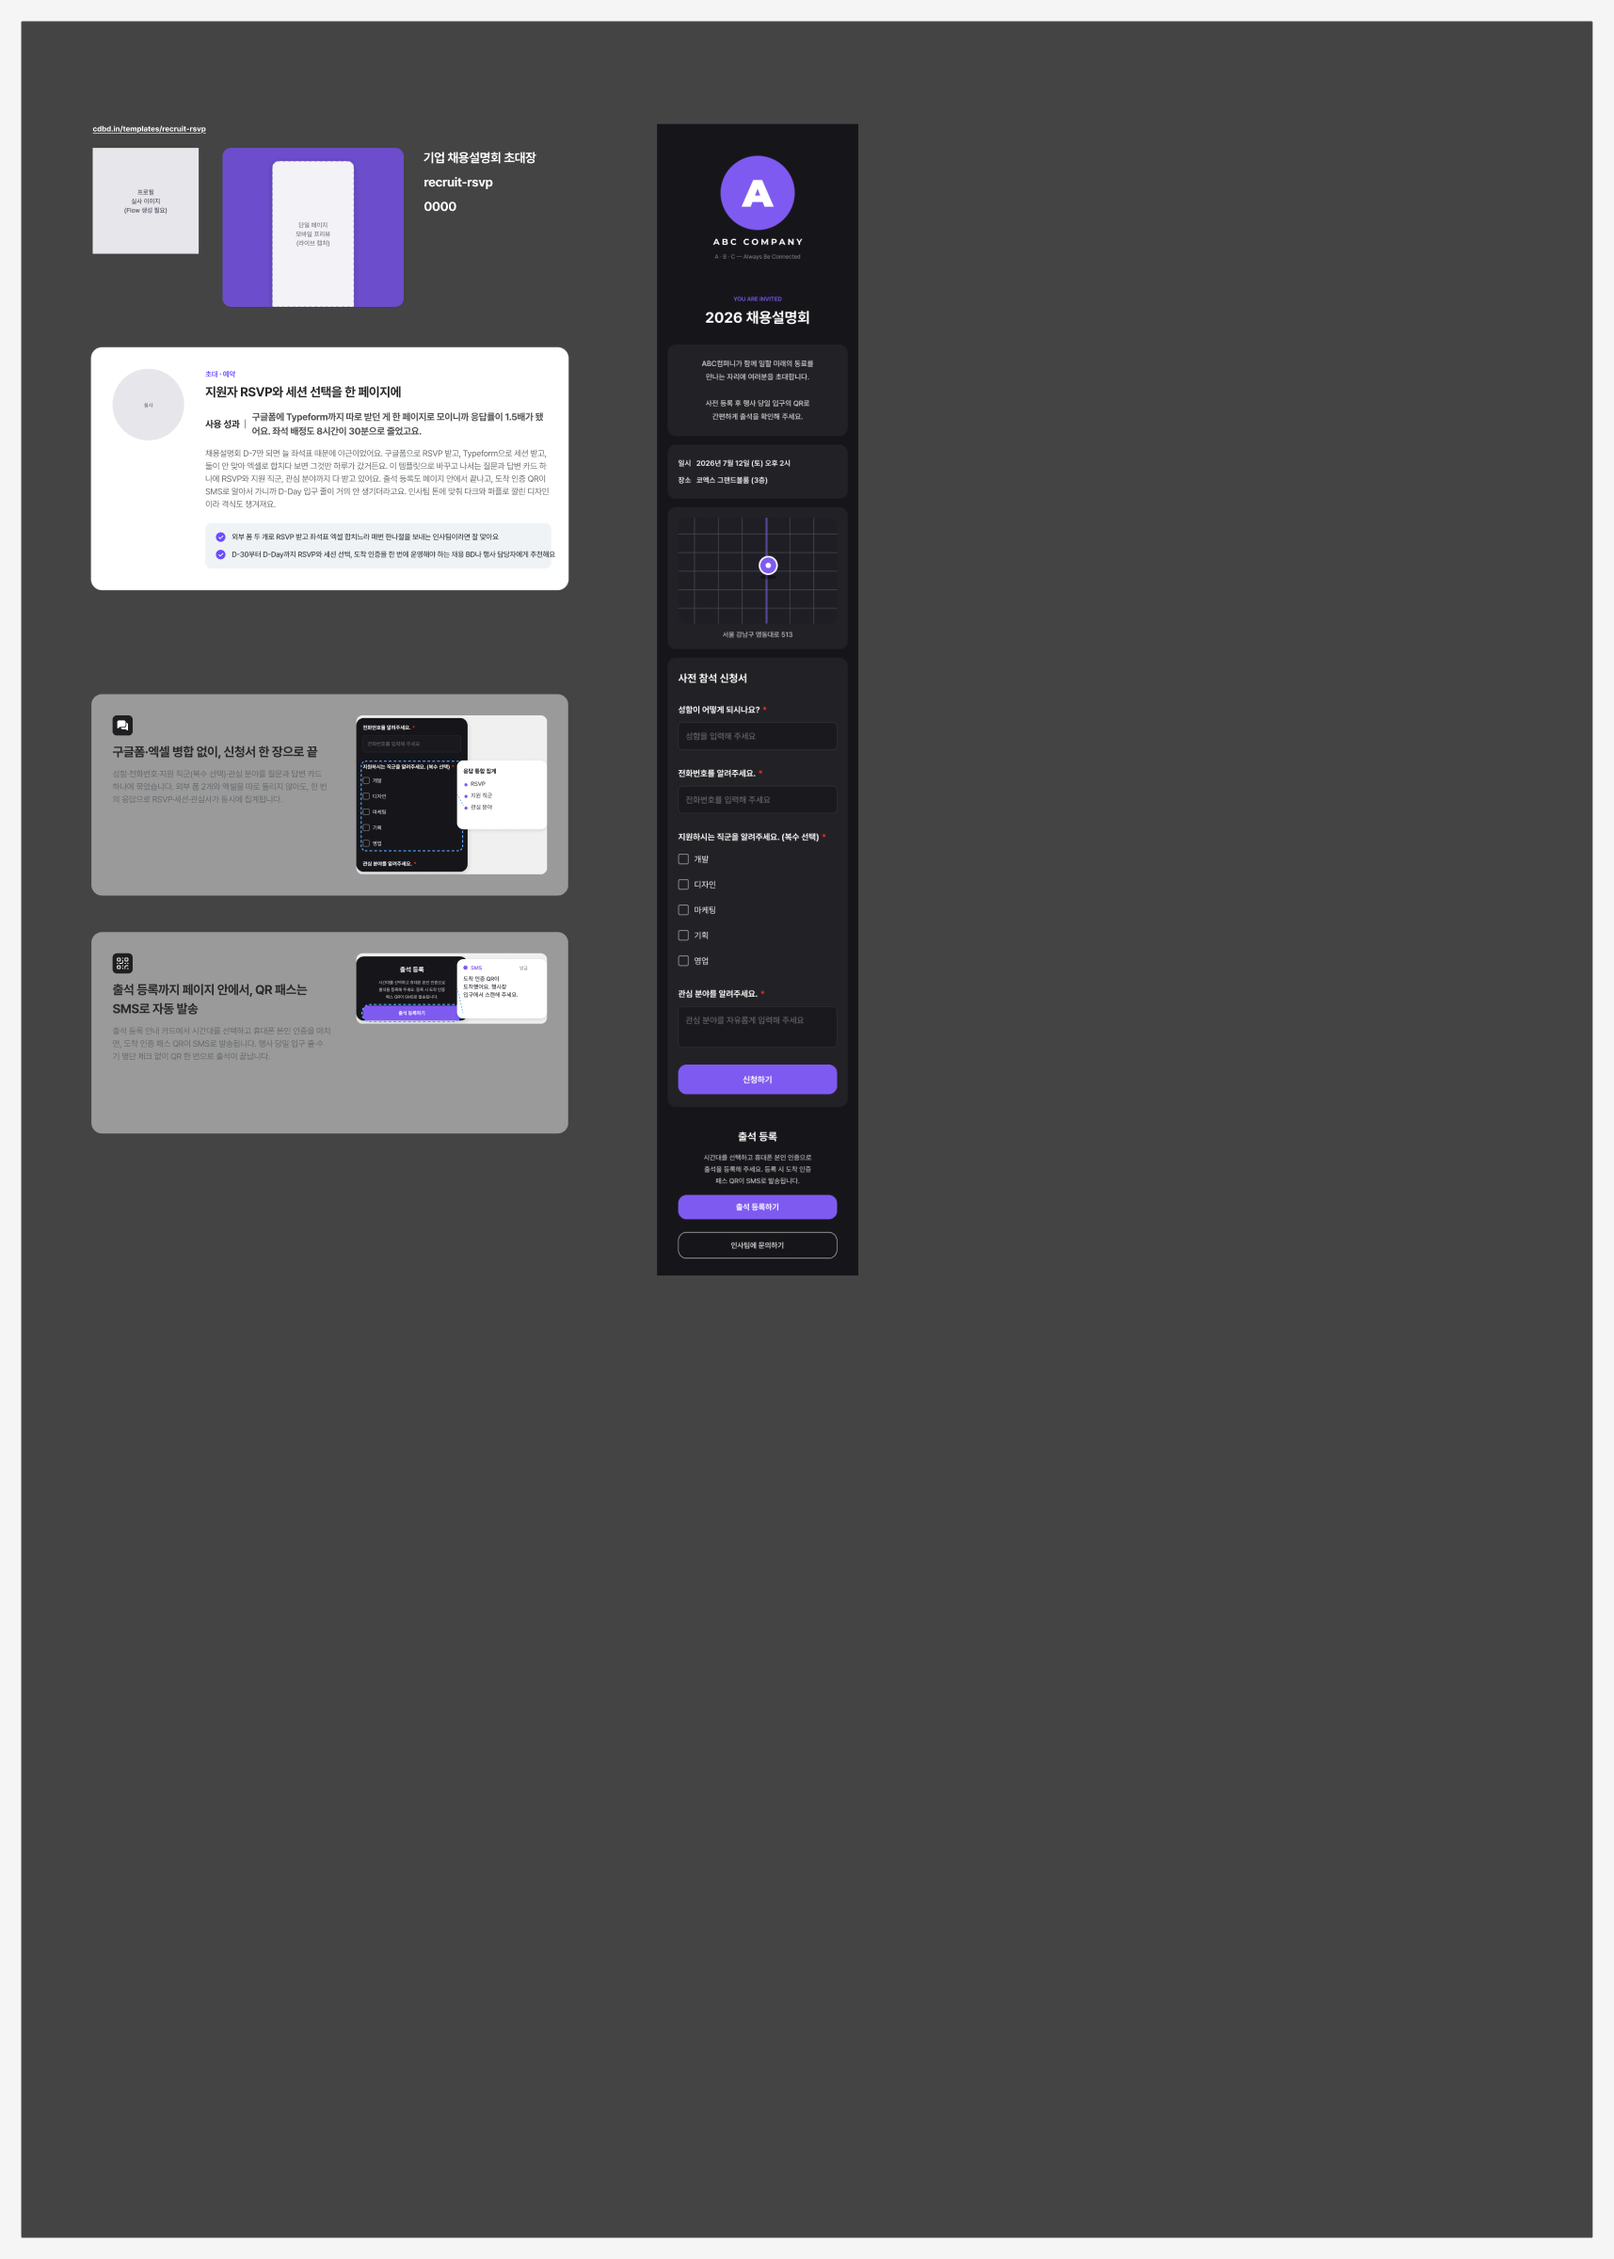
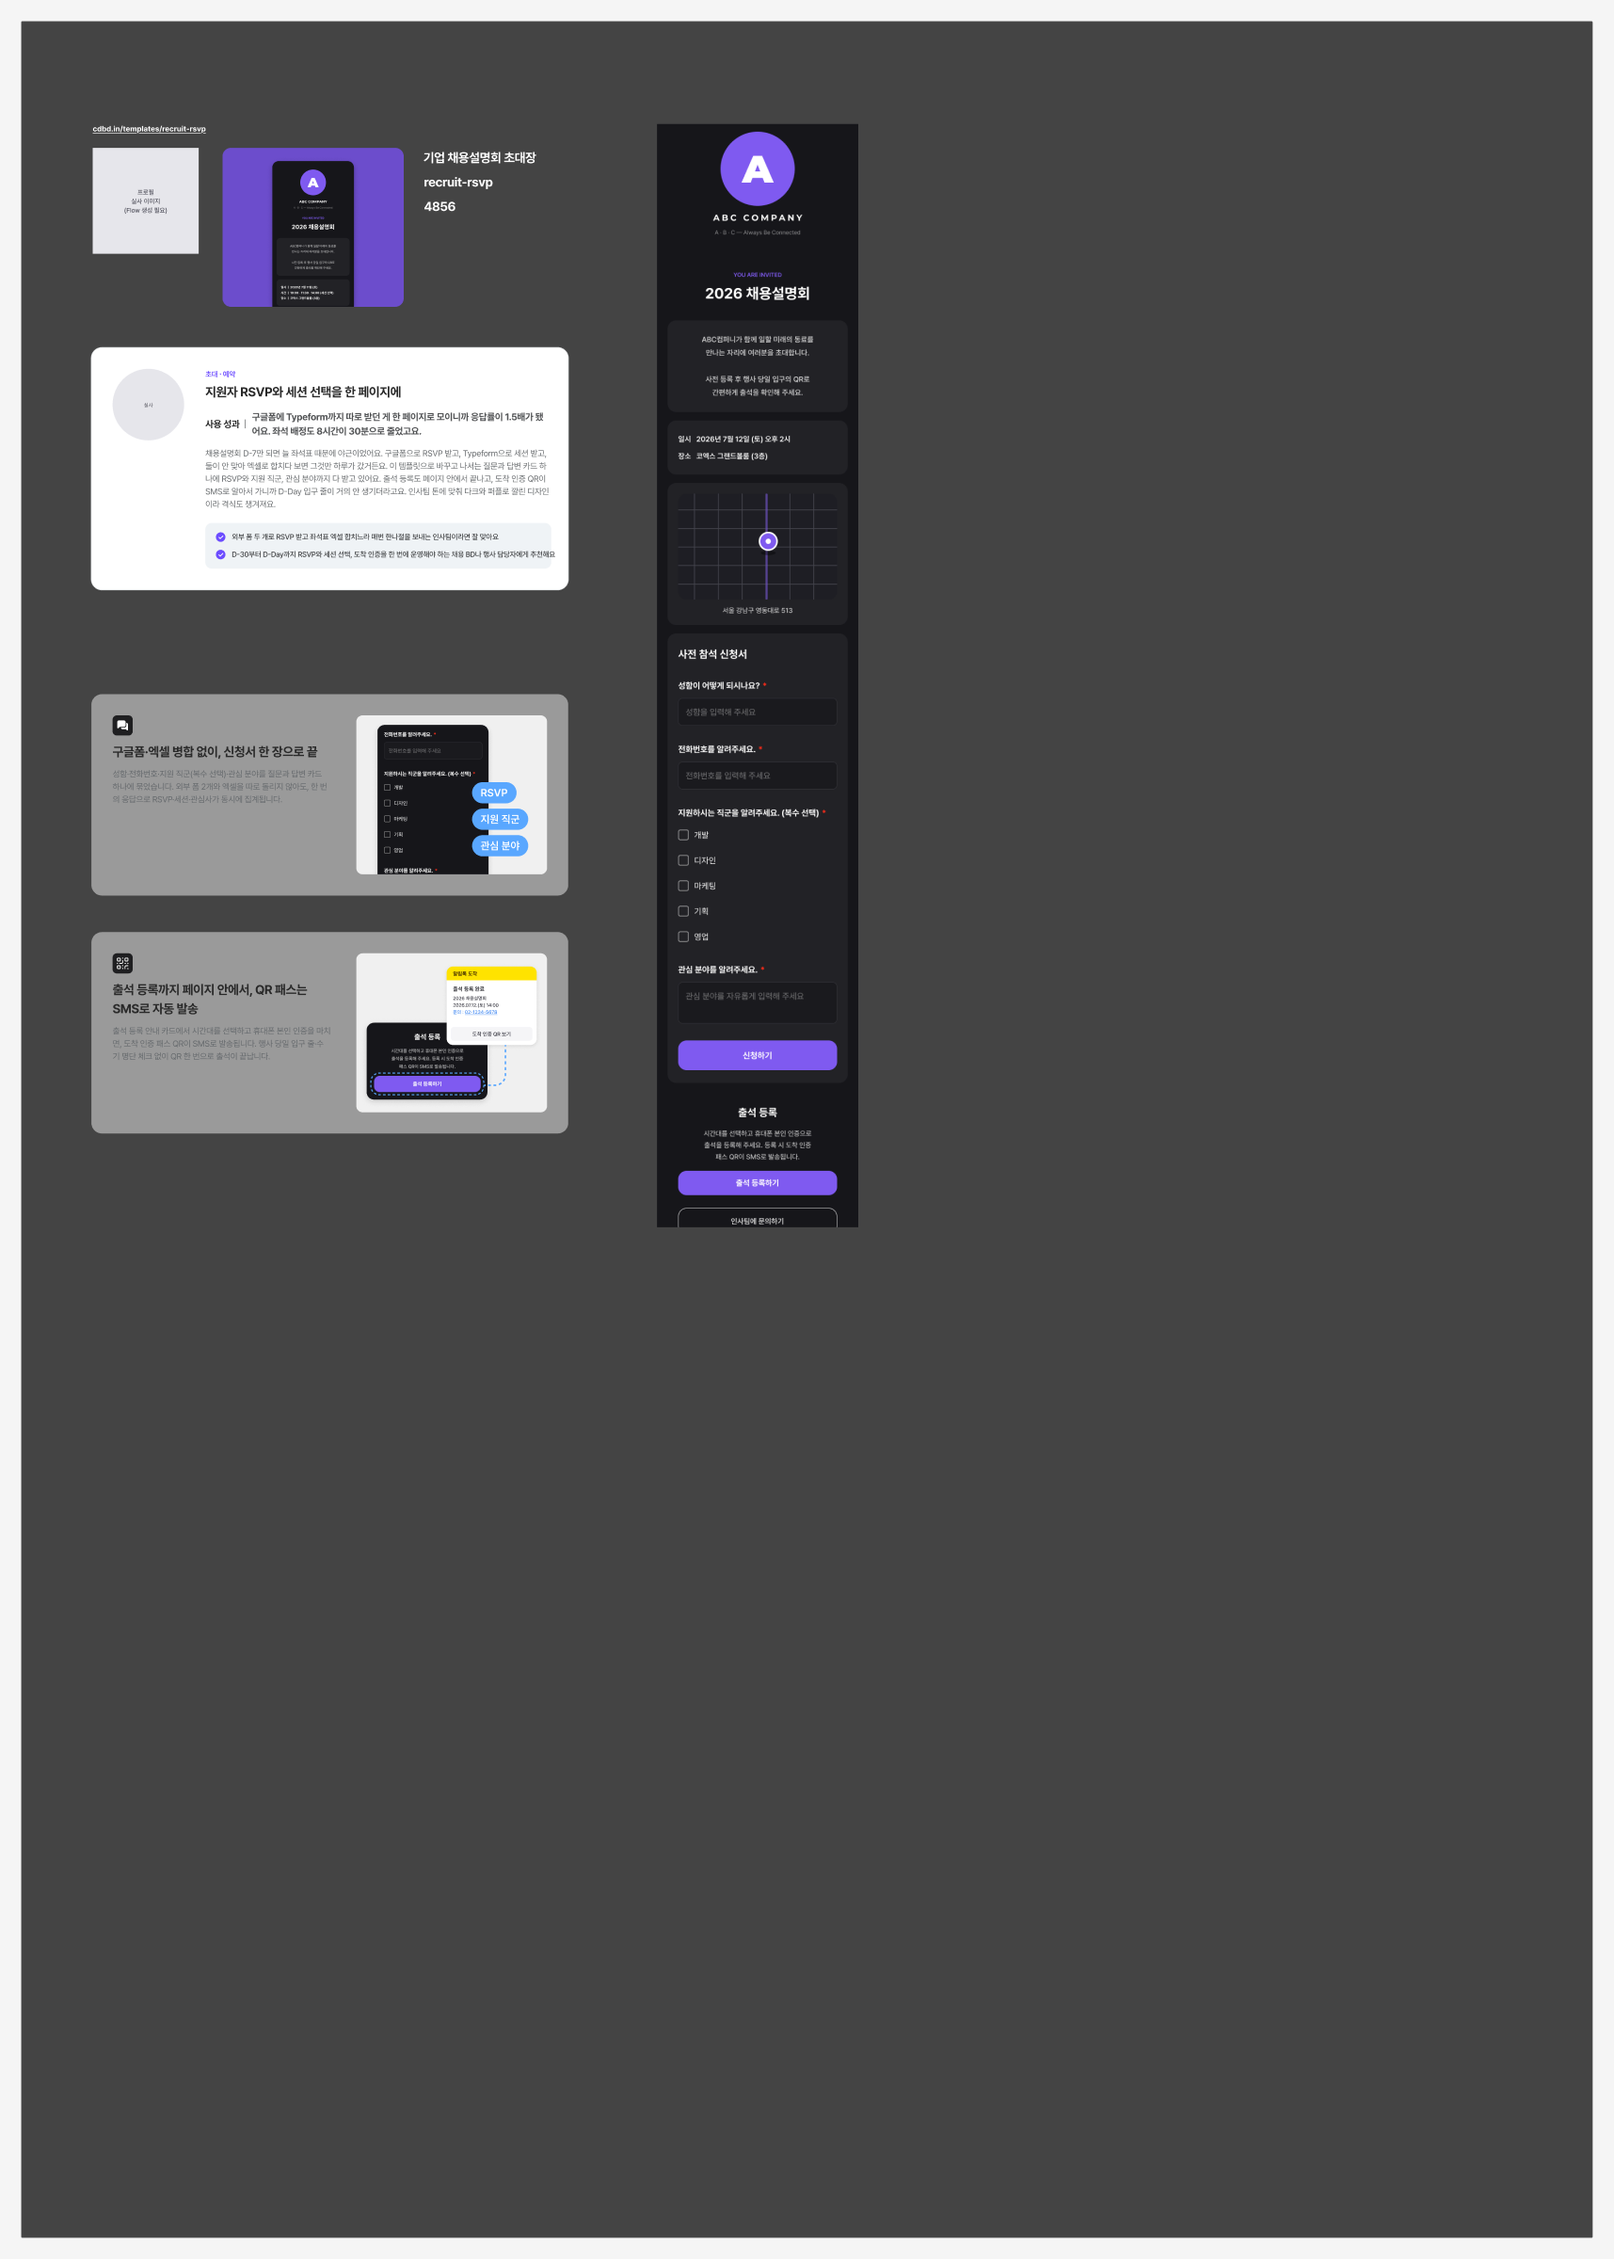
vault backup: 2026-06-19 17:54:13

diff --git a/10.프로젝트/CdBd 템플릿/초대·예약/recruit-rsvp.md b/10.프로젝트/CdBd 템플릿/초대·예약/recruit-rsvp.md
@@ -7,7 +7,7 @@ mood: 🌑 모던/시크
 figma_skeleton: https://www.figma.com/design/oi8zIHLfy59O5zV8aysqq4/CdBd-%ED%85%9C%ED%94%8C%EB%A6%BF-%EB%93%B1%EB%A1%9D?node-id=298-24
 figma_detail_section: https://www.figma.com/design/oi8zIHLfy59O5zV8aysqq4/CdBd-%ED%85%9C%ED%94%8C%EB%A6%BF-%EB%93%B1%EB%A1%9D?node-id=311-506
 spec_source: "[디자인명세] 템플릿To-be_10건_260618.pdf §2-01"
-status: 5단계 완료 (피그마 상세 페이지 슬롯 채움) — 4단계 라이브 페이지 구현 대기
+status: 5단계 완료 (라이브 캡처 부착·에디터 ID 반영) — OG 업로드 수동 대기 → 6단계 어드민 등록
 related: "[[1-5. 템플릿 상세 페이지]], [[1-4-1. 에디터 페이지]], [[1-1. 색상 팔레트 라이브러리]]"
 ---
 
@@ -46,7 +46,7 @@ related: "[[1-5. 템플릿 상세 페이지]], [[1-4-1. 에디터 페이지]], [
 | 제목 | **지원자 RSVP와 세션 선택을 한 페이지에** |
 | 슬러그 | `recruit-rsvp` |
 | 썸네일 이미지 | **신규 패턴** — 단일 페이지 = 중앙 모바일 목업 1개 (top 살짝 crop). 멀티페이지 = 좌우 2개·높이 다르게. [원페이지 spec](https://www.figma.com/design/ZONZ0OlRiyD02hRdwlURED/CdBd-%ED%85%9C%ED%94%8C%EB%A6%BF?node-id=1144-2073). <br><br>**배경색 = 페이지 포인트 색상(보통 버튼색) + dim 15%** ([산정 룰](#-썸네일-배경색-산정-룰)). T01 버튼색 `#7F5AF0` (HSL L=65, bright) → black dim 15% → 최종 `#6C4DCC` |
-| 에디터 ID | `0000` _(더미 — 4단계 라이브 페이지 구현 후 실제 ID로 교체)_ |
+| 에디터 ID | `4856` _(라이브 — [에디터 4856](https://www.cdbd.in/editor/4856))_ |
 | 카테고리 | ☑ **초대·예약** |
 | 활성화 | ON |
 
@@ -140,11 +140,12 @@ related: "[[1-5. 템플릿 상세 페이지]], [[1-4-1. 에디터 페이지]], [
 ## G. 미정 / 후속 작업 필요
 
 - 🖼 **프로필 실사 이미지 (Flow)** — `image 55` (134×134), `프로필` (200×200) 2개 슬롯. 채용 담당자 페르소나 인물 컷, [[1-3. 이미지#📦 소스 ②: Google Labs Flow (실사 이미지)|Flow 가이드]] 준수
-- 🖼 **썸네일 모바일 캡처** — 4단계 라이브 페이지 구현 후 단일 페이지 모바일 프리뷰 캡처해서 dashed placeholder 자리에 삽입
+- ✅ **썸네일 모바일 캡처** — `recruit-rsvp-viewer-sharp.png` 상단 380×680 crop 부착 완료 (2026-06-19)
 - 🎨 **주요기능 메인 이미지 2개** — 단순 캡처 ❌. mockup + 콜아웃/하이라이트 박스/오버레이 카드 조합 디자인 필요
 - ❓ **부제목 라벨 카피** — `사용 성과`로 기본 선택. 인사팀 톤에 맞춰 `도입 결과`·`주요 효과`로 교체 가능
 - ❓ **본문 수치 "1.5배", "8시간 → 30분"** — review 톤으로 환산. 실측 데이터 확보 시 교체
-- 🔁 **에디터 ID `0000`** — 더미. 4단계 라이브 페이지 구현 후 실제 ID로 교체
+- ✅ **에디터 ID** — `4856` 라이브 (2026-06-19)
+- 🖼 **OG 이미지 (800×400 JPG)** — 디자인 완료 + JPG export (og.jpg). 에디터 4856 URL 정보 편집 모달에 **사용자 수동 업로드 필요** (자동화 불가, 1-4-1 매트릭스 명시)
 
 ---
 
